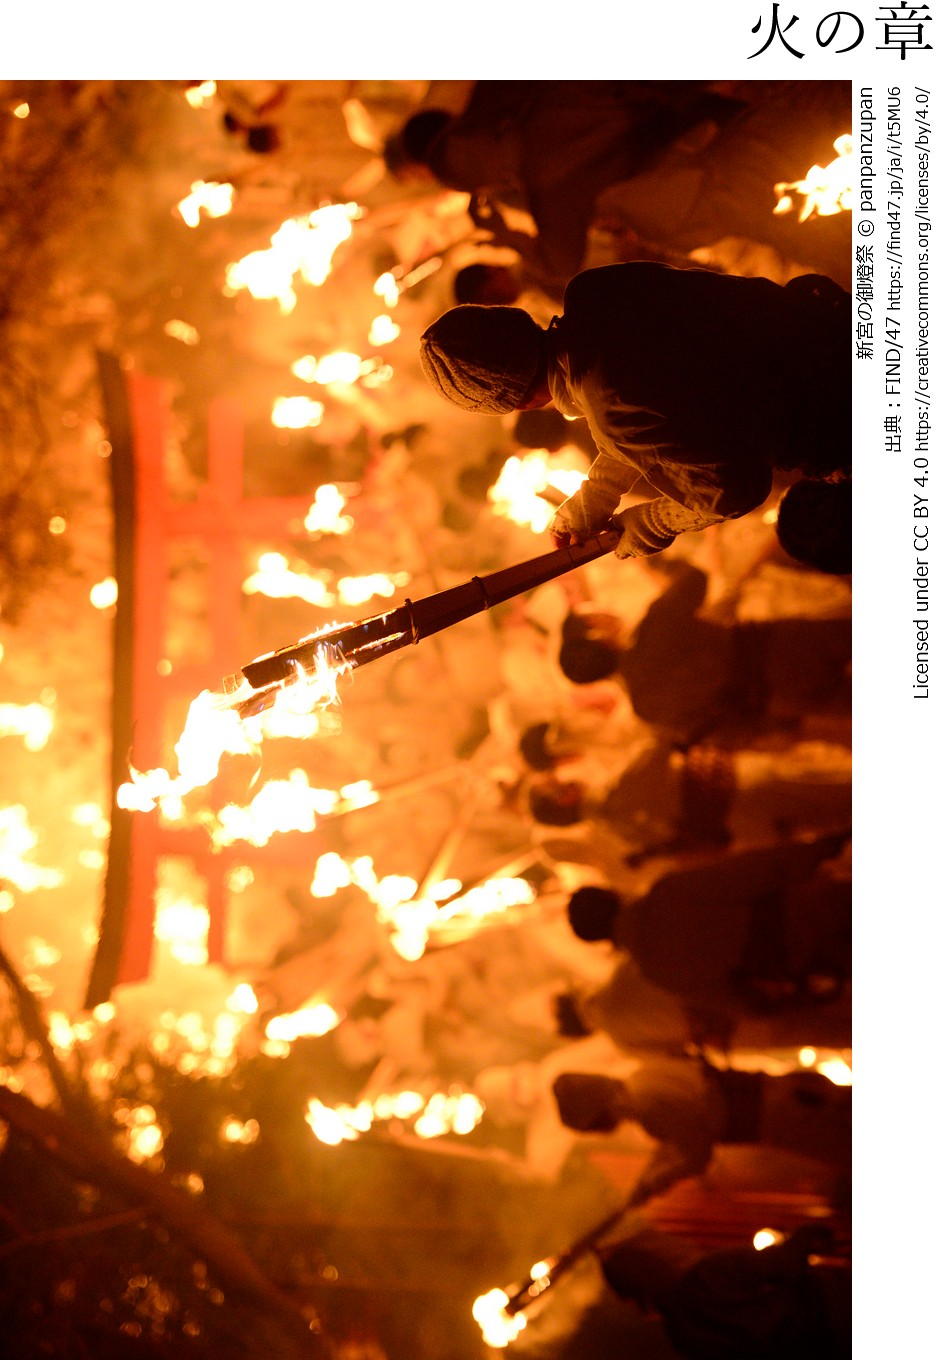
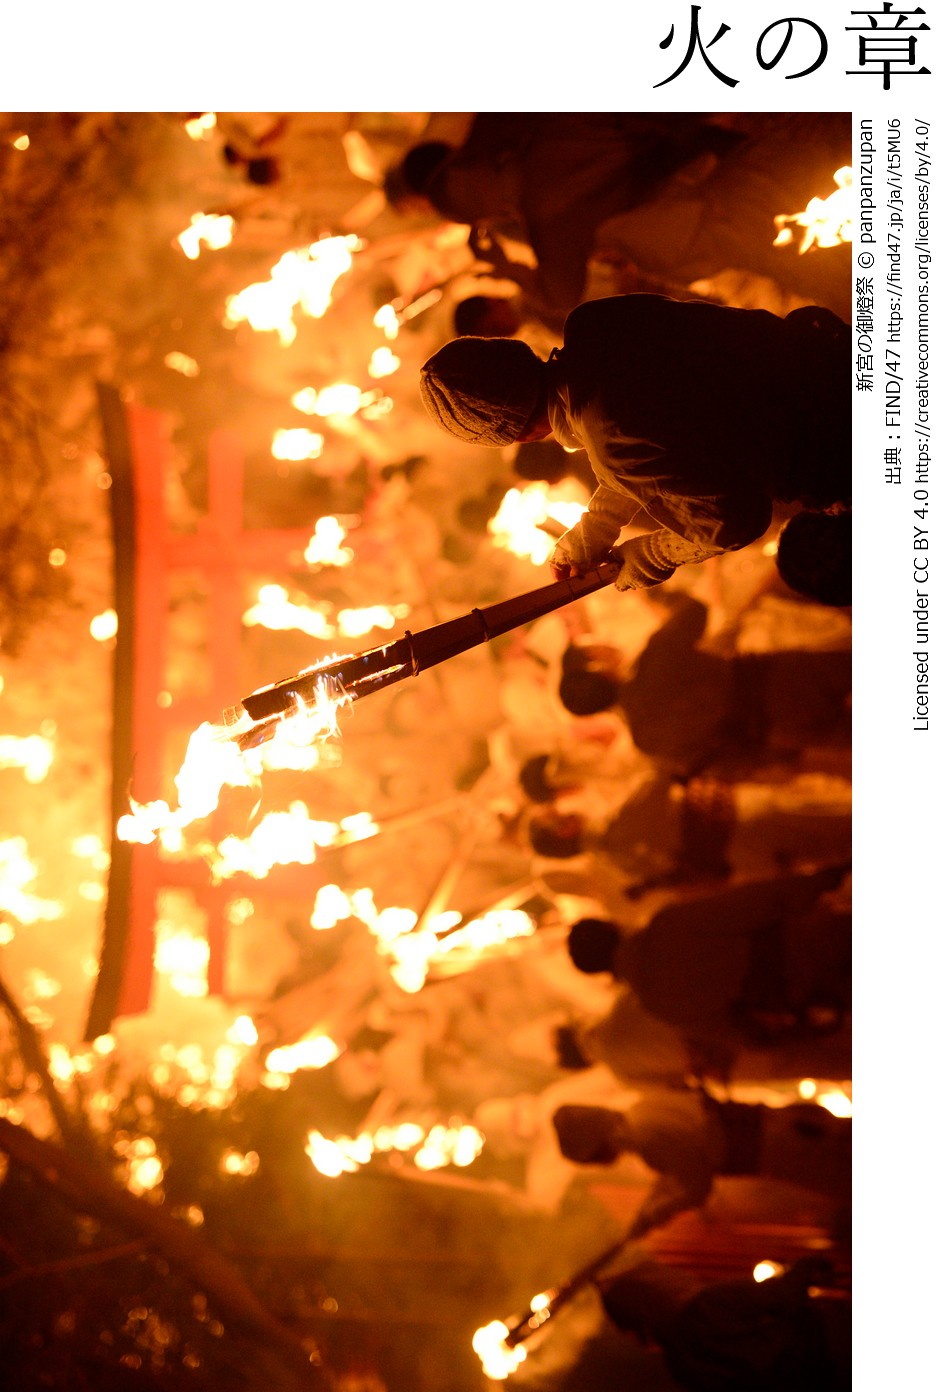
各章冒頭の写真の章名のフォントサイズを大きくした

diff --git a/images/photo.css b/images/photo.css
@@ -36,8 +36,8 @@ figure.title-and-image > figcaption {
   background-color: #fff;
   color: #000;
   font-family: serif;
-  font-size: 2rem;
-  line-height: 2rem;
+  font-size: 3rem;
+  line-height: 3rem;
   padding-bottom: 0.5rem;
   text-align: right;
 }
